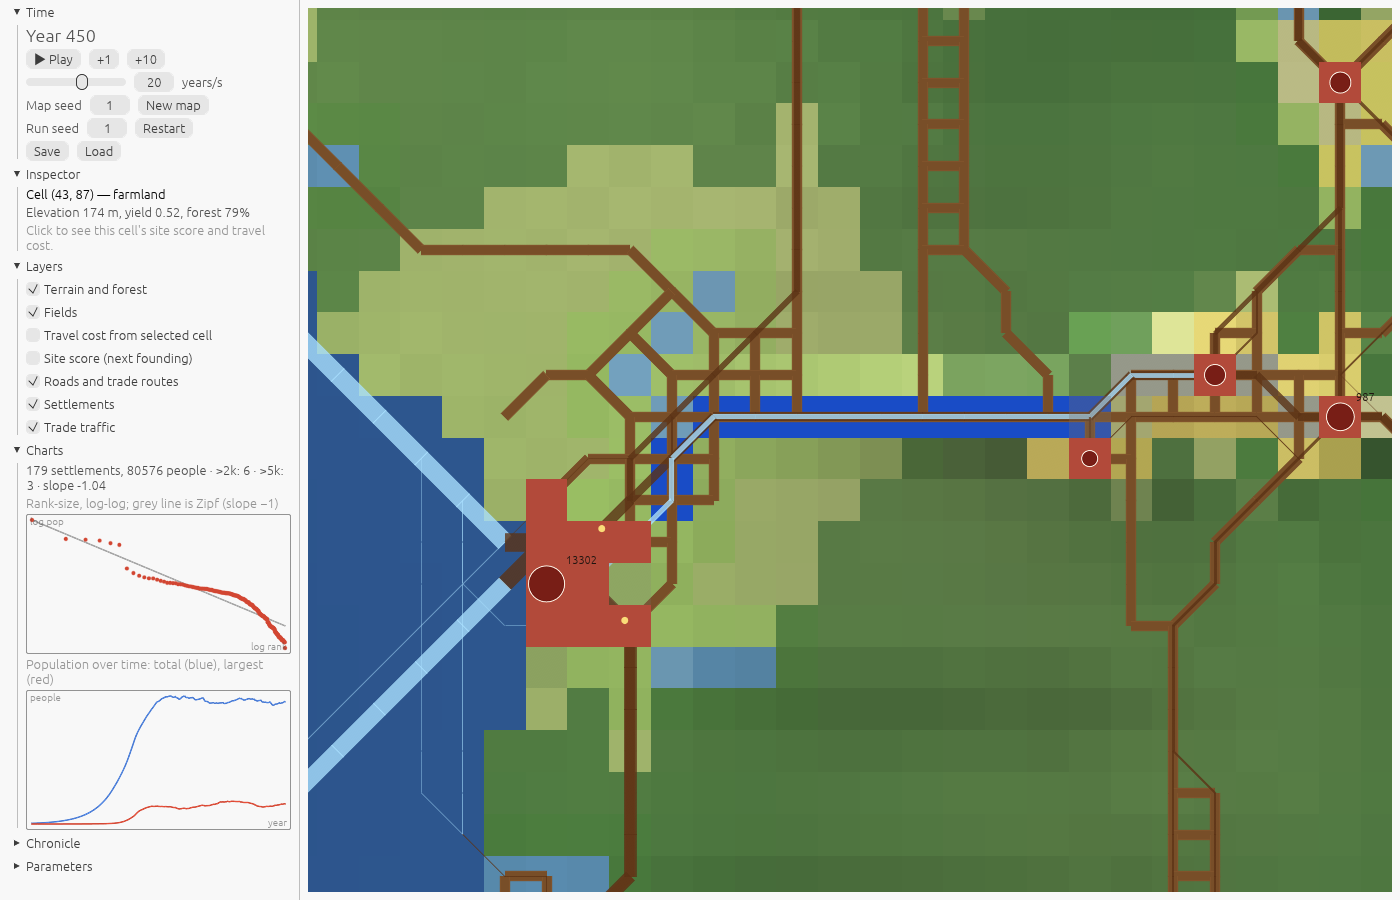
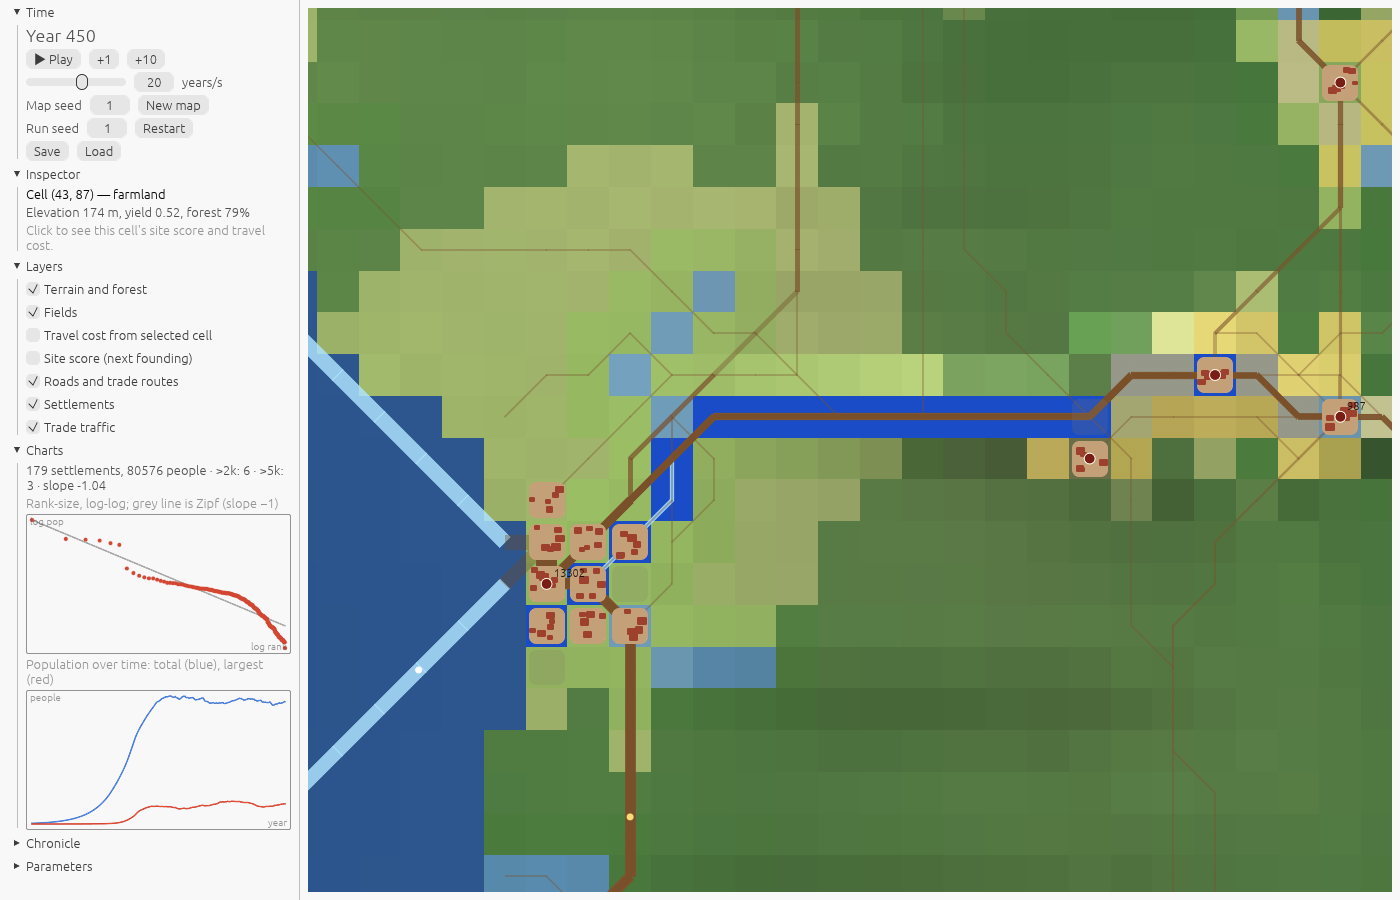
M6 viewer: roads drawn along built segments, quiet routes faded, town blocks and houses
Claude-Session: https://claude.ai/code/session_014BA7MX2NmHLKnGyB3DXHv5

diff --git a/crates/hinterlands-web/src/layers/routes.rs b/crates/hinterlands-web/src/layers/routes.rs
@@ -1,19 +1,23 @@
-//! Roads and trade routes. Roads are drawn brown under the routes; each route
-//! segment's width follows the yearly flow summed over all paths that use it,
-//! brown on land and blue on water.
+//! Roads and trade routes. Every segment is drawn once: roads in brown along the
+//! segments they were built on, water routes in blue; each segment's width
+//! follows the yearly trade flow over it. Land trade off the roads, and minor
+//! water routes, are drawn faintly or not at all, so the main corridors read.
 
 use super::{DrawCtx, Layer};
 use egui::{Color32, Stroke};
 use std::collections::BTreeMap;
 
+/// Segments below this share of the largest flow are not drawn unless they are roads.
+const MIN_SHARE: f32 = 0.02;
+
 #[derive(Default)]
 pub struct RoutesLayer {
     /// (cell a, cell b, on water) -> flow, rebuilt once per year.
-    segments: Vec<(usize, usize, bool, f32)>,
+    segments: BTreeMap<(u32, u32, bool), f32>,
     key: Option<(u64, u32)>,
 }
 
-pub fn segments(d: &DrawCtx) -> Vec<(usize, usize, bool, f32)> {
+pub fn segments(d: &DrawCtx) -> BTreeMap<(u32, u32, bool), f32> {
     let n = d.view.terrain.n() as u32;
     let mut acc: BTreeMap<(u32, u32, bool), f32> = BTreeMap::new();
     for f in &d.view.snapshot.flows {
@@ -23,13 +27,10 @@ pub fn segments(d: &DrawCtx) -> Vec<(usize, usize, bool, f32)> {
                 continue;
             }
             let water = w[0] >= n && w[1] >= n;
-            let key = if a < b { (a, b, water) } else { (b, a, water) };
-            *acc.entry(key).or_insert(0.0) += f.amount;
+            *acc.entry((a.min(b), a.max(b), water)).or_insert(0.0) += f.amount;
         }
     }
-    acc.into_iter()
-        .map(|((a, b, wtr), v)| (a as usize, b as usize, wtr, v))
-        .collect()
+    acc
 }
 
 impl Layer for RoutesLayer {
@@ -48,52 +49,44 @@ impl Layer for RoutesLayer {
             self.key = Some(key);
         }
         let z = d.camera.zoom;
-        // Roads.
-        let road = &v.snapshot.road;
-        let road_stroke = Stroke::new((0.25 * z).max(1.0), Color32::from_rgb(120, 78, 40));
-        for i in 0..g.n() {
-            if !road[i] || !v.terrain.is_land(i) {
+        let max = self.segments.values().copied().fold(1.0f32, f32::max);
+        let width = |flow: f32| (flow / max).sqrt() * 0.5 * z;
+        let at = |c: u32| d.camera.cell_center(d.rect, g.w, c as usize);
+
+        // Water routes first, under the roads.
+        for (&(a, b, water), &flow) in &self.segments {
+            if !water || flow < MIN_SHARE * max {
                 continue;
             }
-            for dir in [0usize, 1, 2, 3] {
-                if let Some(j) = g.neighbor(i, dir) {
-                    // A diagonal is drawn only where no orthogonal road cell already
-                    // joins the two, so road corners don't become triangles.
-                    let is_road =
-                        |c: Option<usize>| c.is_some_and(|c| road[c] && v.terrain.is_land(c));
-                    let corner = dir % 2 == 1
-                        && (is_road(g.neighbor(i, (dir + 7) % 8))
-                            || is_road(g.neighbor(i, (dir + 1) % 8)));
-                    if road[j] && v.terrain.is_land(j) && !corner {
-                        d.painter.line_segment(
-                            [
-                                d.camera.cell_center(d.rect, g.w, i),
-                                d.camera.cell_center(d.rect, g.w, j),
-                            ],
-                            road_stroke,
-                        );
-                    }
-                }
-            }
-        }
-        // Trade.
-        let max = self.segments.iter().map(|s| s.3).fold(1.0f32, f32::max);
-        for &(a, b, water, flow) in &self.segments {
-            let w = (flow / max).sqrt() * 0.6 * z;
-            if w < 0.4 {
-                continue;
-            }
-            let col = if water {
-                Color32::from_rgba_unmultiplied(170, 225, 255, 200)
-            } else {
-                Color32::from_rgba_unmultiplied(90, 50, 20, 200)
-            };
+            let w = width(flow).max(1.0);
             d.painter.line_segment(
-                [
-                    d.camera.cell_center(d.rect, g.w, a),
-                    d.camera.cell_center(d.rect, g.w, b),
-                ],
-                Stroke::new(w, col),
+                [at(a), at(b)],
+                Stroke::new(w, Color32::from_rgba_unmultiplied(175, 228, 255, 210)),
+            );
+        }
+        // Land trade that does not follow a road: faint.
+        let edges = &v.snapshot.road_edges;
+        for (&(a, b, water), &flow) in &self.segments {
+            if water || flow < MIN_SHARE * max || edges.binary_search(&(a, b)).is_ok() {
+                continue;
+            }
+            let w = width(flow).max(0.8);
+            d.painter.line_segment(
+                [at(a), at(b)],
+                Stroke::new(w, Color32::from_rgba_unmultiplied(110, 70, 35, 90)),
+            );
+        }
+        // Roads, thickened by the trade they carry.
+        let base = (0.12 * z).clamp(1.0, 3.0);
+        for &(a, b) in edges {
+            let flow = self.segments.get(&(a, b, false)).copied().unwrap_or(0.0);
+            // Roads that now carry little trade fade back.
+            let busy = (flow / (MIN_SHARE * 5.0 * max)).clamp(0.0, 1.0);
+            let alpha = (90.0 + 165.0 * busy) as u8;
+            let w = (base * (0.6 + 0.4 * busy)).max(width(flow));
+            d.painter.line_segment(
+                [at(a), at(b)],
+                Stroke::new(w, Color32::from_rgba_unmultiplied(122, 80, 42, alpha)),
             );
         }
     }

diff --git a/crates/hinterlands-web/src/layers/settlements.rs b/crates/hinterlands-web/src/layers/settlements.rs
@@ -42,17 +42,21 @@ impl Layer for SettlementsLayer {
             }
             self.key = key;
         }
-        if let Some(tex) = &self.tex {
-            let r = d.camera.map_rect(d.rect, t.grid.w, t.grid.h);
-            d.painter.image(
-                tex.id(),
-                r,
-                egui::Rect::from_min_max(egui::pos2(0.0, 0.0), egui::pos2(1.0, 1.0)),
-                Color32::WHITE,
-            );
+        let z = d.camera.zoom;
+        if z < 4.0 {
+            if let Some(tex) = &self.tex {
+                let r = d.camera.map_rect(d.rect, t.grid.w, t.grid.h);
+                d.painter.image(
+                    tex.id(),
+                    r,
+                    egui::Rect::from_min_max(egui::pos2(0.0, 0.0), egui::pos2(1.0, 1.0)),
+                    Color32::WHITE,
+                );
+            }
+        } else {
+            draw_blocks(d);
         }
         let w = t.grid.w;
-        let z = d.camera.zoom;
         for s in &snap.settlements {
             let p = d.camera.cell_center(d.rect, w, s.anchor as usize);
             let r = match s.rank {
@@ -61,6 +65,8 @@ impl Layer for SettlementsLayer {
                 Rank::Town => 0.32,
                 Rank::City => 0.42,
             } * z;
+            // Close up the town blocks show the extent; the marker only marks the centre.
+            let r = if z >= 4.0 { r.min(5.0) } else { r };
             d.painter.circle(
                 p,
                 r.max(1.5),
@@ -75,6 +81,59 @@ impl Layer for SettlementsLayer {
                     egui::FontId::proportional(11.0),
                     Color32::from_rgb(30, 20, 15),
                 );
+            }
+        }
+    }
+}
+
+/// Close up, built-up cells are drawn as rounded town blocks; further in, each
+/// block shows a few houses, placed by a hash of the cell so they stay put.
+fn draw_blocks(d: &DrawCtx) {
+    let v = d.view;
+    let g = v.terrain.grid;
+    let snap = &v.snapshot;
+    let z = d.camera.zoom;
+    let half = egui::vec2(0.5, 0.5) * z;
+    for i in 0..g.n() {
+        let built = snap.built[i] != NONE;
+        if !built && snap.ruin[i] == 0 {
+            continue;
+        }
+        let c = d.camera.cell_center(d.rect, g.w, i);
+        let cell = egui::Rect::from_center_size(c, half * 2.0);
+        if !d.rect.intersects(cell) {
+            continue;
+        }
+        let block = cell.shrink(z * 0.07);
+        let radius = (z * 0.18) as u8;
+        if !built {
+            let a = 40 + snap.ruin[i] * 2;
+            d.painter.rect_filled(
+                block,
+                radius,
+                Color32::from_rgba_unmultiplied(125, 115, 104, a),
+            );
+            continue;
+        }
+        d.painter
+            .rect_filled(block, radius, Color32::from_rgb(196, 160, 120));
+        if z >= 12.0 {
+            let mut h = (i as u32).wrapping_mul(2654435761);
+            for _ in 0..6 {
+                h ^= h << 13;
+                h ^= h >> 17;
+                h ^= h << 5;
+                let fx = (h & 0xff) as f32 / 255.0;
+                let fy = ((h >> 8) & 0xff) as f32 / 255.0;
+                let sz = 0.14 + ((h >> 16) & 0x3f) as f32 / 63.0 * 0.1;
+                let p = block.min
+                    + egui::vec2(
+                        fx * (block.width() - sz * z),
+                        fy * (block.height() - sz * z),
+                    );
+                let house = egui::Rect::from_min_size(p, egui::vec2(sz * z, sz * z * 0.8));
+                d.painter
+                    .rect_filled(house, 1, Color32::from_rgb(158, 64, 46));
             }
         }
     }

diff --git a/crates/hinterlands-core/src/systems/roads.rs b/crates/hinterlands-core/src/systems/roads.rs
@@ -1,7 +1,7 @@
 //! Roads (Dalgaard et al. 2022; the Azgaar generator loop, simplified). Every
 //! `road_interval` years the largest trade flows whose path is not yet all road
 //! have their land cells marked as road, and the cost grid is rebuilt.
-//! Roads never decay in v1. Writes: road, cost.
+//! Roads never decay in v1. Writes: road, road_edges, cost.
 
 use crate::params::Params;
 use crate::state::State;
@@ -38,6 +38,15 @@ pub fn run(state: &mut State, t: &Terrain, p: &Params, _rng: &mut Rng) {
             .collect();
         if land.len() < 2 || land.iter().all(|&c| state.road[c]) {
             continue;
+        }
+        // The segments the road follows, for drawing: consecutive land nodes.
+        for w in path.windows(2) {
+            if w[0] < n && w[1] < n && w[0] != w[1] {
+                let e = (w[0].min(w[1]), w[0].max(w[1]));
+                if let Err(at) = state.road_edges.binary_search(&e) {
+                    state.road_edges.insert(at, e);
+                }
+            }
         }
         for c in land {
             state.road[c] = true;

diff --git a/crates/hinterlands-core/src/state.rs b/crates/hinterlands-core/src/state.rs
@@ -204,6 +204,8 @@ pub struct State {
     /// Owning settlement id of a cultivated cell, or `NONE`.
     pub owner: Vec<u32>,
     pub road: Vec<bool>,
+    /// Cell pairs a road runs between, sorted; for drawing only (costs use `road`).
+    pub road_edges: Vec<(u32, u32)>,
     /// Settlement whose built-up footprint covers the cell, or `NONE` (rendering only).
     pub built: Vec<u32>,
     /// Years a ruin remains visible.
@@ -242,6 +244,7 @@ impl State {
             forest: t.forest0.clone(),
             owner: vec![NONE; n],
             road,
+            road_edges: Vec::new(),
             built: vec![NONE; n],
             ruin: vec![0; n],
             domain: vec![0; n],

diff --git a/crates/hinterlands-core/src/snapshot.rs b/crates/hinterlands-core/src/snapshot.rs
@@ -46,6 +46,7 @@ pub struct Snapshot {
     pub forest: Vec<u8>,
     pub owner: Vec<u32>,
     pub road: Vec<bool>,
+    pub road_edges: Vec<(u32, u32)>,
     pub built: Vec<u32>,
     pub ruin: Vec<u8>,
     pub hub: Vec<bool>,
@@ -106,6 +107,7 @@ impl Snapshot {
                 .collect(),
             owner: state.owner.clone(),
             road: state.road.clone(),
+            road_edges: state.road_edges.clone(),
             built: state.built.clone(),
             ruin: state.ruin.clone(),
             hub: state.hub.clone(),
